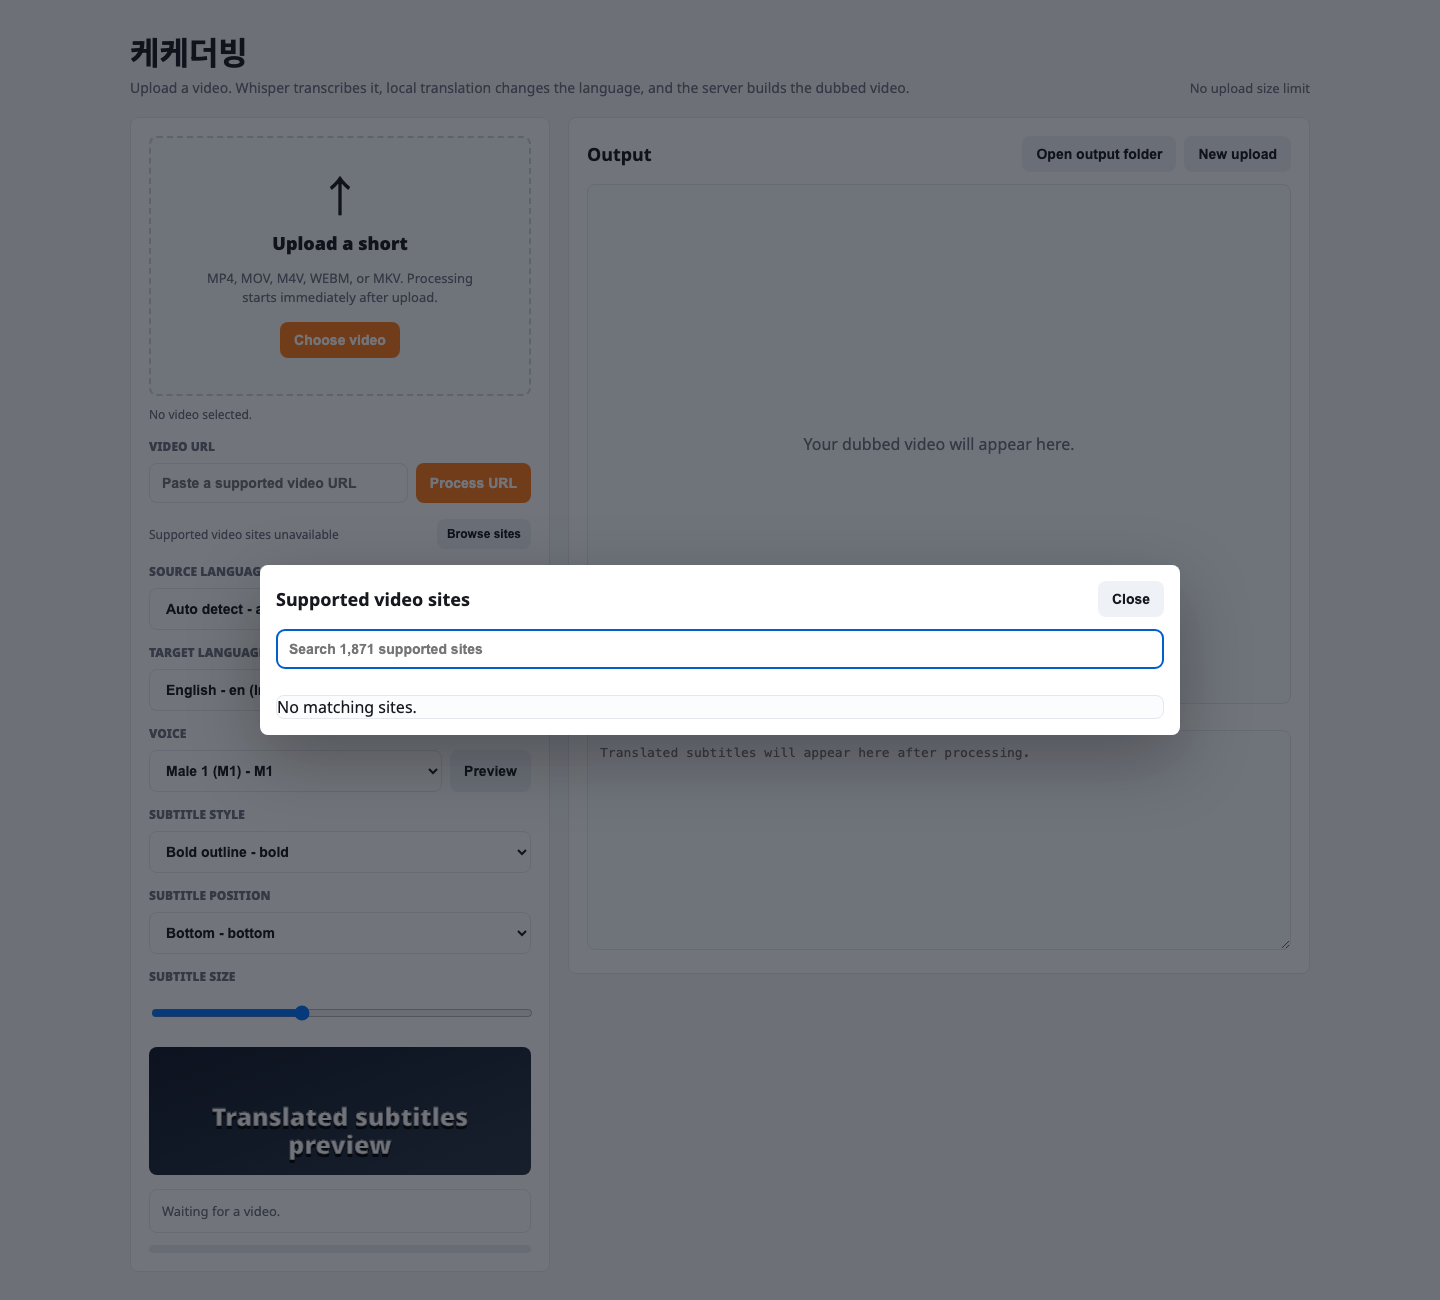
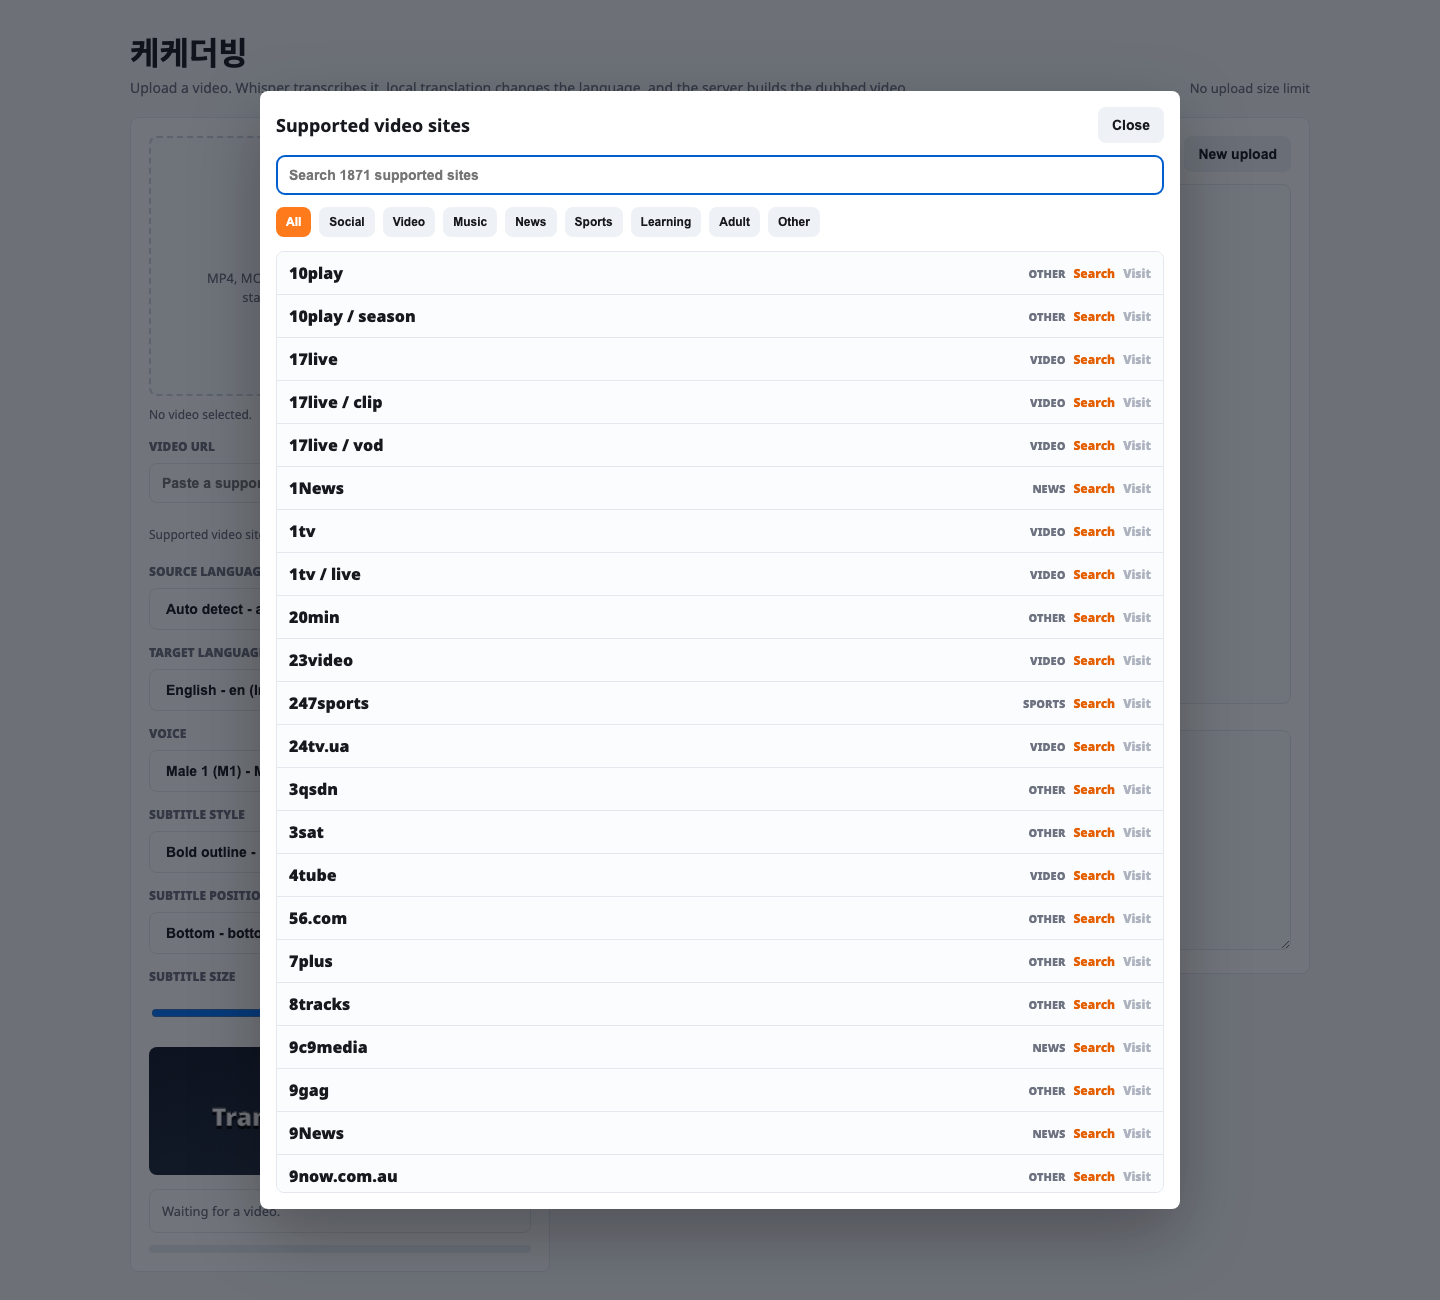
Add live URL translation preview

diff --git a/web/index.html b/web/index.html
@@ -217,6 +217,7 @@
     let maxUploadMb = 0;
     let previewAudio = null;
     let currentSource = null;
+    let translationAbort = null;
     let languageResources = { source_ready: [], target_ready: [] };
     const fileInput = document.getElementById('fileInput');
     const dropZone = document.getElementById('dropZone');
@@ -268,6 +269,13 @@
 
     function setProgress(value) {
       bar.style.width = Math.max(0, Math.min(100, value)) + '%';
+    }
+
+    function stopLiveTranslation() {
+      if (translationAbort) {
+        translationAbort.abort();
+        translationAbort = null;
+      }
     }
 
     function selectedLabel(select) {
@@ -552,6 +560,7 @@
     }
 
     function reset() {
+      stopLiveTranslation();
       fileInput.value = '';
       currentSource = null;
       fileName.textContent = 'No video selected.';
@@ -567,6 +576,71 @@
       downloadLink.removeAttribute('href');
       srt.value = '';
       meta.textContent = '';
+    }
+
+    async function streamTranslationPreview(source) {
+      if (!source || !source.video_path) return;
+      stopLiveTranslation();
+      const controller = new AbortController();
+      translationAbort = controller;
+      srt.value = '';
+      meta.innerHTML = '<span>Live translation</span><span>Target: ' + selectedLabel(targetLang) + '</span>';
+      setStatus('Transcribing and translating the URL video...');
+      setProgress(82);
+
+      try {
+        const response = await fetch('/api/transcribe-translate-stream', {
+          method: 'POST',
+          headers: { 'Content-Type': 'application/json' },
+          signal: controller.signal,
+          body: JSON.stringify({ video_path: source.video_path, ...selectedOptions() })
+        });
+        if (!response.ok || !response.body) {
+          const data = await response.json().catch(() => ({}));
+          throw new Error(data.detail || data.error || 'Live translation failed.');
+        }
+
+        const reader = response.body.getReader();
+        const decoder = new TextDecoder();
+        let pending = '';
+        let segmentCount = 0;
+
+        while (true) {
+          const { value, done } = await reader.read();
+          if (done) break;
+          pending += decoder.decode(value, { stream: true });
+          const lines = pending.split('\n');
+          pending = lines.pop() || '';
+          for (const line of lines) {
+            if (!line.trim()) continue;
+            const event = JSON.parse(line);
+            if (event.type === 'status') {
+              setStatus(event.message || 'Translating...');
+            } else if (event.type === 'detected') {
+              meta.innerHTML = '<span>Live translation</span><span>Detected: ' + (event.source_language || 'unknown') + '</span><span>Target: ' + selectedLabel(targetLang) + '</span>';
+            } else if (event.type === 'segment') {
+              segmentCount = event.index || (segmentCount + 1);
+              srt.value += (srt.value ? '\n\n' : '') + event.srt_block;
+              srt.scrollTop = srt.scrollHeight;
+              setProgress(Math.min(96, 82 + segmentCount * 2));
+              setStatus('Live translation: ' + segmentCount + ' subtitle segments ready.');
+            } else if (event.type === 'done') {
+              srt.value = event.srt || srt.value;
+              meta.innerHTML = '<span>Live translation complete</span><span>Detected: ' + (event.source_language || 'unknown') + '</span><span>Target: ' + selectedLabel(targetLang) + '</span><span>Segments: ' + ((event.segments || []).length) + '</span>';
+              setStatus('Live translation ready. Review subtitles, edit the source, or start dubbing.', 'ok');
+              setProgress(100);
+            } else if (event.type === 'error') {
+              throw new Error(event.message || 'Live translation failed.');
+            }
+          }
+        }
+      } catch (error) {
+        if (error.name !== 'AbortError') {
+          setStatus(error.message || 'Live translation failed.', 'bad');
+        }
+      } finally {
+        if (translationAbort === controller) translationAbort = null;
+      }
     }
 
     async function processFile(file) {
@@ -610,6 +684,7 @@
       }
 
       fileInput.value = '';
+      stopLiveTranslation();
       fileName.textContent = 'Remote video URL selected.';
       setStatus('Downloading the video for preview...');
       setProgress(8);
@@ -626,6 +701,7 @@
           throw new Error(data.detail || data.error || 'Download failed.');
         }
         showSource(data);
+        streamTranslationPreview(data);
       } catch (error) {
         setStatus(error.message || 'Processing failed.', 'bad');
         setProgress(0);
@@ -669,6 +745,7 @@
         setStatus('Upload or download a source video first.', 'bad');
         return;
       }
+      stopLiveTranslation();
       dubSourceButton.disabled = true;
       setStatus('Dubbing current video and burning subtitles...');
       setProgress(12);

diff --git a/backend/app/main.py b/backend/app/main.py
@@ -19,7 +19,7 @@ import argostranslate.translate
 import argostranslate.package
 from fastapi import FastAPI, File, HTTPException, Request, UploadFile
 from fastapi.middleware.cors import CORSMiddleware
-from fastapi.responses import FileResponse, JSONResponse, Response
+from fastapi.responses import FileResponse, JSONResponse, Response, StreamingResponse
 from fastapi.staticfiles import StaticFiles
 
 ROOT = Path(os.getenv("APP_ROOT", "/app")).resolve()
@@ -636,6 +636,78 @@ async def transcribe_translate(request: Request) -> dict[str, Any]:
         srt = to_srt(segments, target_lang)
 
     return {"success": True, "srt": srt, "segments": segments, "target_lang": target_lang}
+
+
[email redacted]("/api/transcribe-translate-stream")
+async def transcribe_translate_stream(request: Request) -> StreamingResponse:
+    payload = await request.json()
+    target_lang = str(payload.get("target_lang") or os.getenv("DEFAULT_TARGET_LANG", "en"))
+    source_lang = validate_source_lang(str(payload.get("source_lang") or os.getenv("DEFAULT_SOURCE_LANG", "auto")))
+    media = safe_path(str(payload.get("video_path") or ""))
+    if target_lang not in SUPERTONIC_LANGUAGE_CODES:
+        raise HTTPException(status_code=400, detail=f"Unsupported target language: {target_lang}")
+
+    def send(event: dict[str, Any]) -> bytes:
+        return (json.dumps(event, ensure_ascii=False) + "\n").encode("utf-8")
+
+    def stream():
+        try:
+            from faster_whisper import WhisperModel
+        except Exception as exc:
+            yield send({"type": "error", "message": f"faster-whisper is not available: {exc}"})
+            return
+
+        try:
+            yield send({"type": "status", "message": "Transcribing source audio..."})
+            model_size = os.getenv("WHISPER_MODEL", "small")
+            model = WhisperModel(model_size, device="cpu", compute_type="int8")
+            raw_segments, info = model.transcribe(
+                str(media),
+                language=source_lang,
+                vad_filter=True,
+                beam_size=5,
+            )
+            detected_lang = source_lang or getattr(info, "language", None) or "en"
+            yield send({"type": "detected", "source_language": detected_lang, "target_language": target_lang})
+
+            entries: list[dict[str, Any]] = []
+            for index, segment in enumerate(raw_segments, start=1):
+                source_text = segment.text.strip()
+                if not source_text:
+                    continue
+                translated = translate_with_pivot(source_text, detected_lang, target_lang)
+                translated = re.sub(r"\s+", " ", translated).strip()
+                entry = {
+                    "start": float(segment.start),
+                    "end": float(segment.end),
+                    "source_text": source_text,
+                    "text": translated,
+                    "language": target_lang,
+                }
+                entries.append(entry)
+                srt_block = (
+                    f"{len(entries)}\n"
+                    f"{fmt_srt_time(entry['start'])} --> {fmt_srt_time(entry['end'])}\n"
+                    f"{wrap_subtitle_text(translated)}"
+                )
+                yield send({"type": "segment", "index": len(entries), "segment": entry, "srt_block": srt_block})
+
+            yield send(
+                {
+                    "type": "done",
+                    "success": True,
+                    "source_language": detected_lang,
+                    "target_language": target_lang,
+                    "segments": entries,
+                    "srt": write_srt(entries),
+                }
+            )
+        except HTTPException as exc:
+            yield send({"type": "error", "message": str(exc.detail)})
+        except Exception as exc:
+            yield send({"type": "error", "message": str(exc)})
+
+    return StreamingResponse(stream(), media_type="application/x-ndjson; charset=utf-8")
 
 
 @app.post("/api/upload-video")

diff --git a/README.en.md b/README.en.md
@@ -16,6 +16,7 @@ The project is designed to avoid external APIs where possible and run with local
 
 - Upload a local video file
 - Import a video from supported sites
+- Show live translated subtitles after a URL video is imported
 - Search 1,800+ supported video sites in a modal
 - Category filters: Social, Video, Music, News, Sports, Learning, Adult, Other
 - Preview the source video before rendering

diff --git a/README.ko.md b/README.ko.md
@@ -16,6 +16,7 @@ English docs: [README.en.md](README.en.md)
 
 - 로컬 영상 업로드
 - 지원 사이트 영상 URL 가져오기
+- URL 영상 가져오기 후 실시간 번역 자막 표시
 - 지원 사이트 1,800개 이상 검색 모달
 - 사이트 카테고리 필터: Social, Video, Music, News, Sports, Learning, Adult, Other
 - 원본/다운로드 영상 미리보기